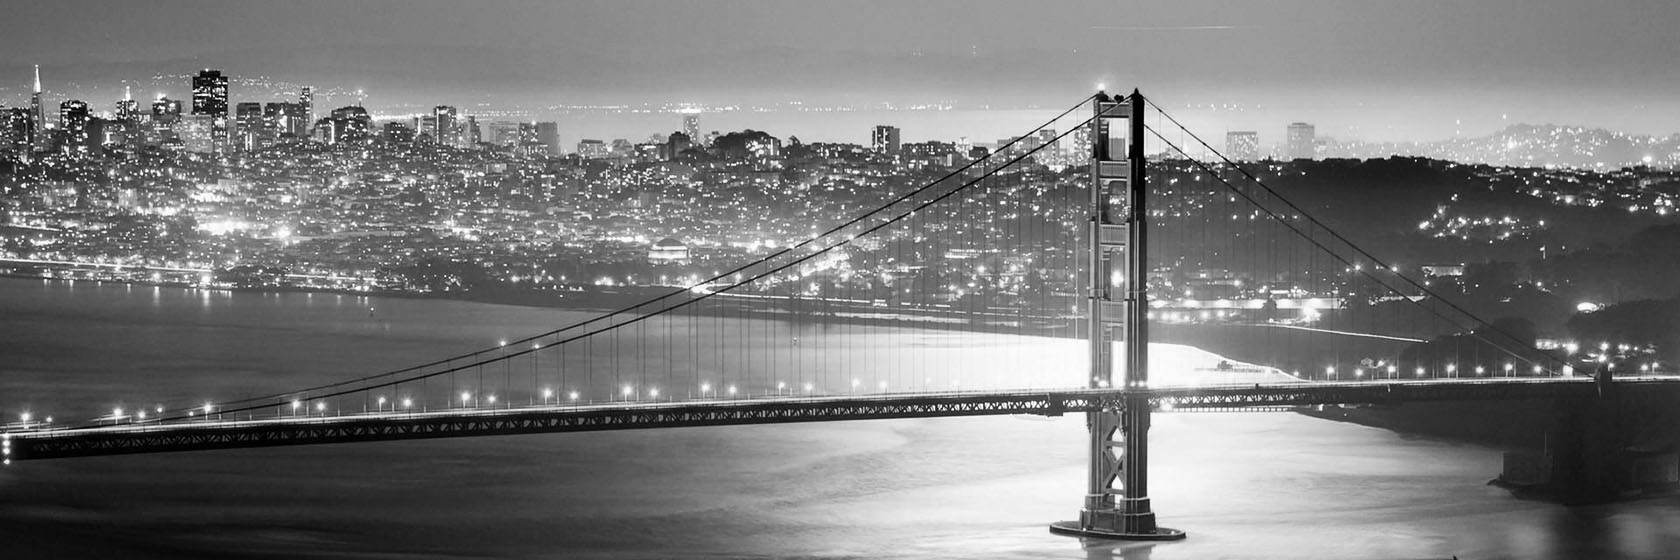
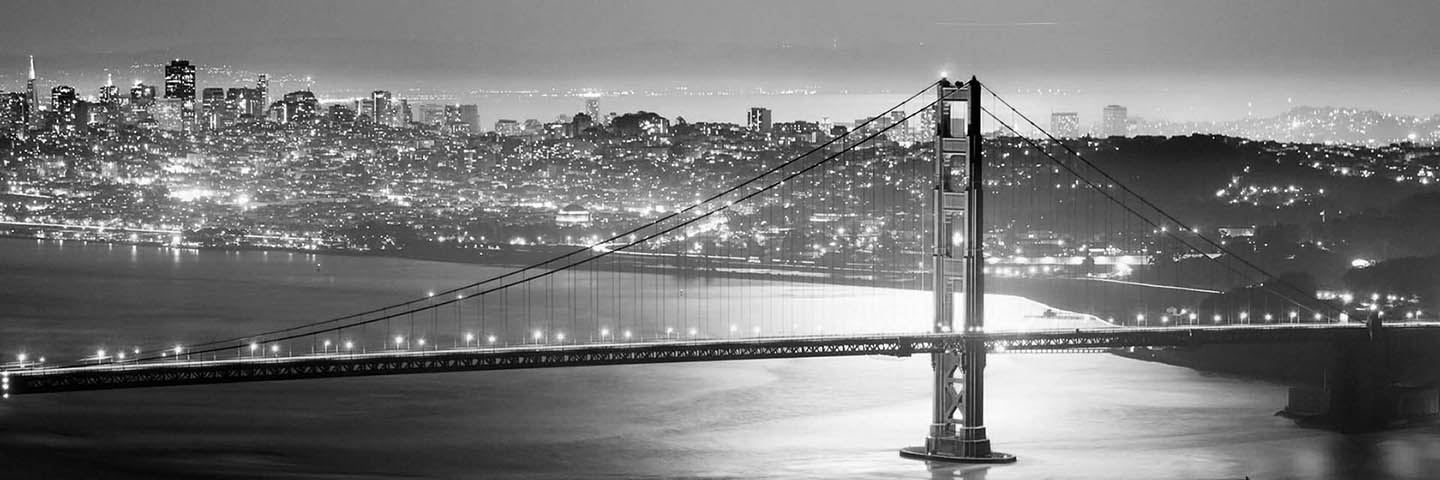
Optimize images

diff --git a/app/assets/stylesheets/static_pages.css.scss b/app/assets/stylesheets/static_pages.css.scss
@@ -9,7 +9,7 @@
 .home {
 	height: calc(100% - 80px);
   width: 100%;
-	background: image_url("banquet_fa14.png") no-repeat center center;
+	background: image_url("banquet_fa14.jpg") no-repeat center center;
 	-webkit-background-size: cover;
   -moz-background-size: cover;
   -o-background-size: cover;

diff --git a/app/assets/stylesheets/rush_applications.css.scss b/app/assets/stylesheets/rush_applications.css.scss
@@ -25,6 +25,10 @@
 	margin: auto;
 }
 
+.btn, .btn-primary {
+	font-family: 'cyntho_proregular', sans-serif;
+}
+
 .submit-button {
 	text-align: center;
 }
